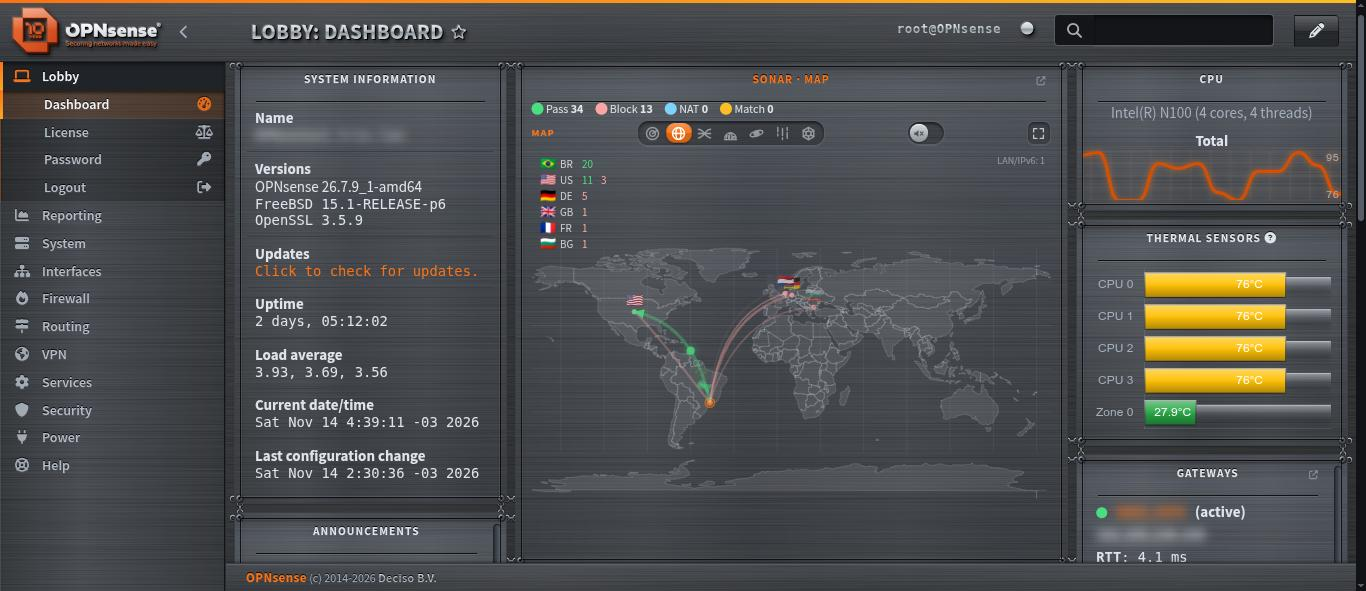
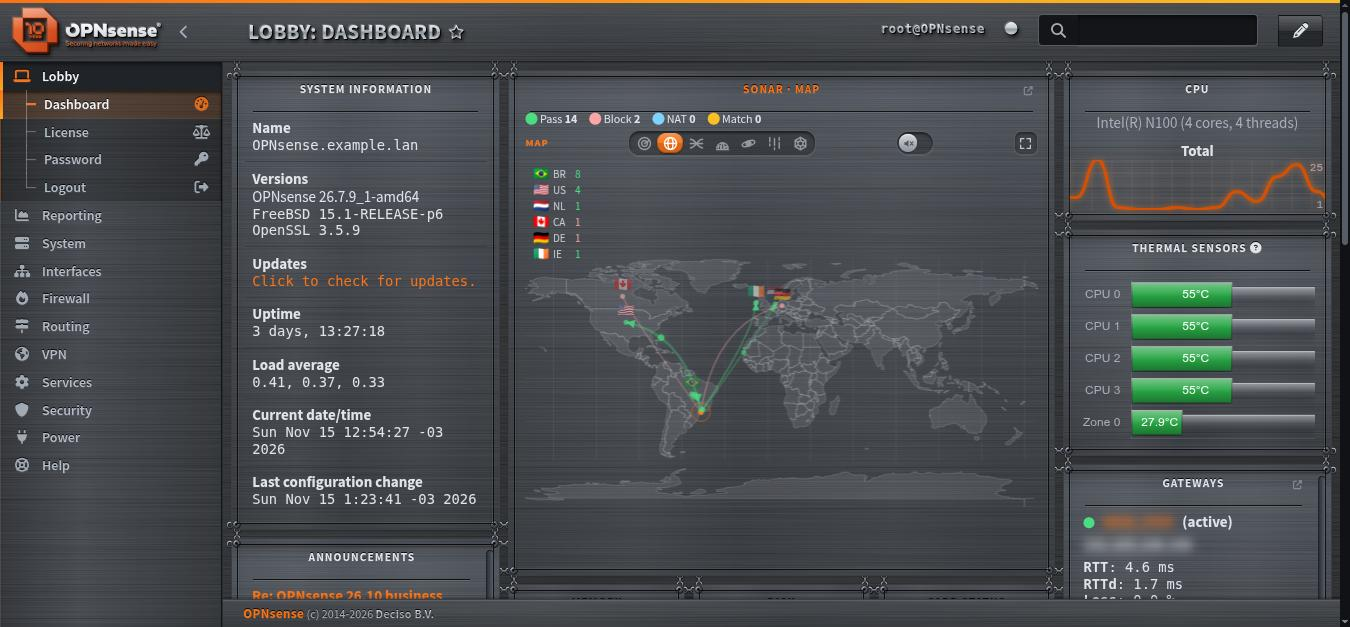
Screenshots: window and full-screen modes (#1)
New screenshots on OPNsense 26.7.9: the six views in window mode as one
compact picture, the map and the Citadel in full screen with the side
panel, and each view on its own. Addresses, interface and rule names are
blurred, including the labels drawn on the canvas.

Our community is crucial in shaping the ongoing development of our
open-source OPNsense® software products.

diff --git a/README.md b/README.md
@@ -11,6 +11,18 @@ Made to celebrate 10 years of OPNsense, as a thank-you to the project and its co
 
 ## Screenshots
 
+**Window mode** (inside the dashboard): the six views, from the compact view selector.
+
+![Sonar views in window mode: radar, map, flow, Citadel, Black hole and Digital rain](screenshots/09-sonar-window-views.jpg)
+
+**Full screen** (button at the top right of the widget), with the side panel of the last 60 s:
+
+| | |
+|---|---|
+| ![Map in full screen](screenshots/07-sonar-fullscreen-map.jpg) | ![Citadel in full screen](screenshots/08-sonar-fullscreen-citadel.jpg) |
+
+<details><summary>Each view on its own, and the widget on the dashboard</summary>
+
 | | |
 |---|---|
 | ![Dashboard](screenshots/00-sonar-dashboard.jpg) | ![Radar](screenshots/01-sonar-radar.jpg) |
@@ -18,8 +30,10 @@ Made to celebrate 10 years of OPNsense, as a thank-you to the project and its co
 | ![Citadel](screenshots/04-sonar-citadel.jpg) | ![Black hole](screenshots/05-sonar-black-hole.jpg) |
 | ![Digital rain](screenshots/06-sonar-digital-rain.jpg) | |
 
+</details>
+
 The dark look in the screenshots is the separate [Forja theme](https://github.com/igortoledo007/opnsense-theme-forja);
-the widget works with any theme. Addresses and interface names in the screenshots are blurred.
+the widget works with any theme. Addresses, interface and rule names in the screenshots are blurred.
 
 ## What it shows
 
